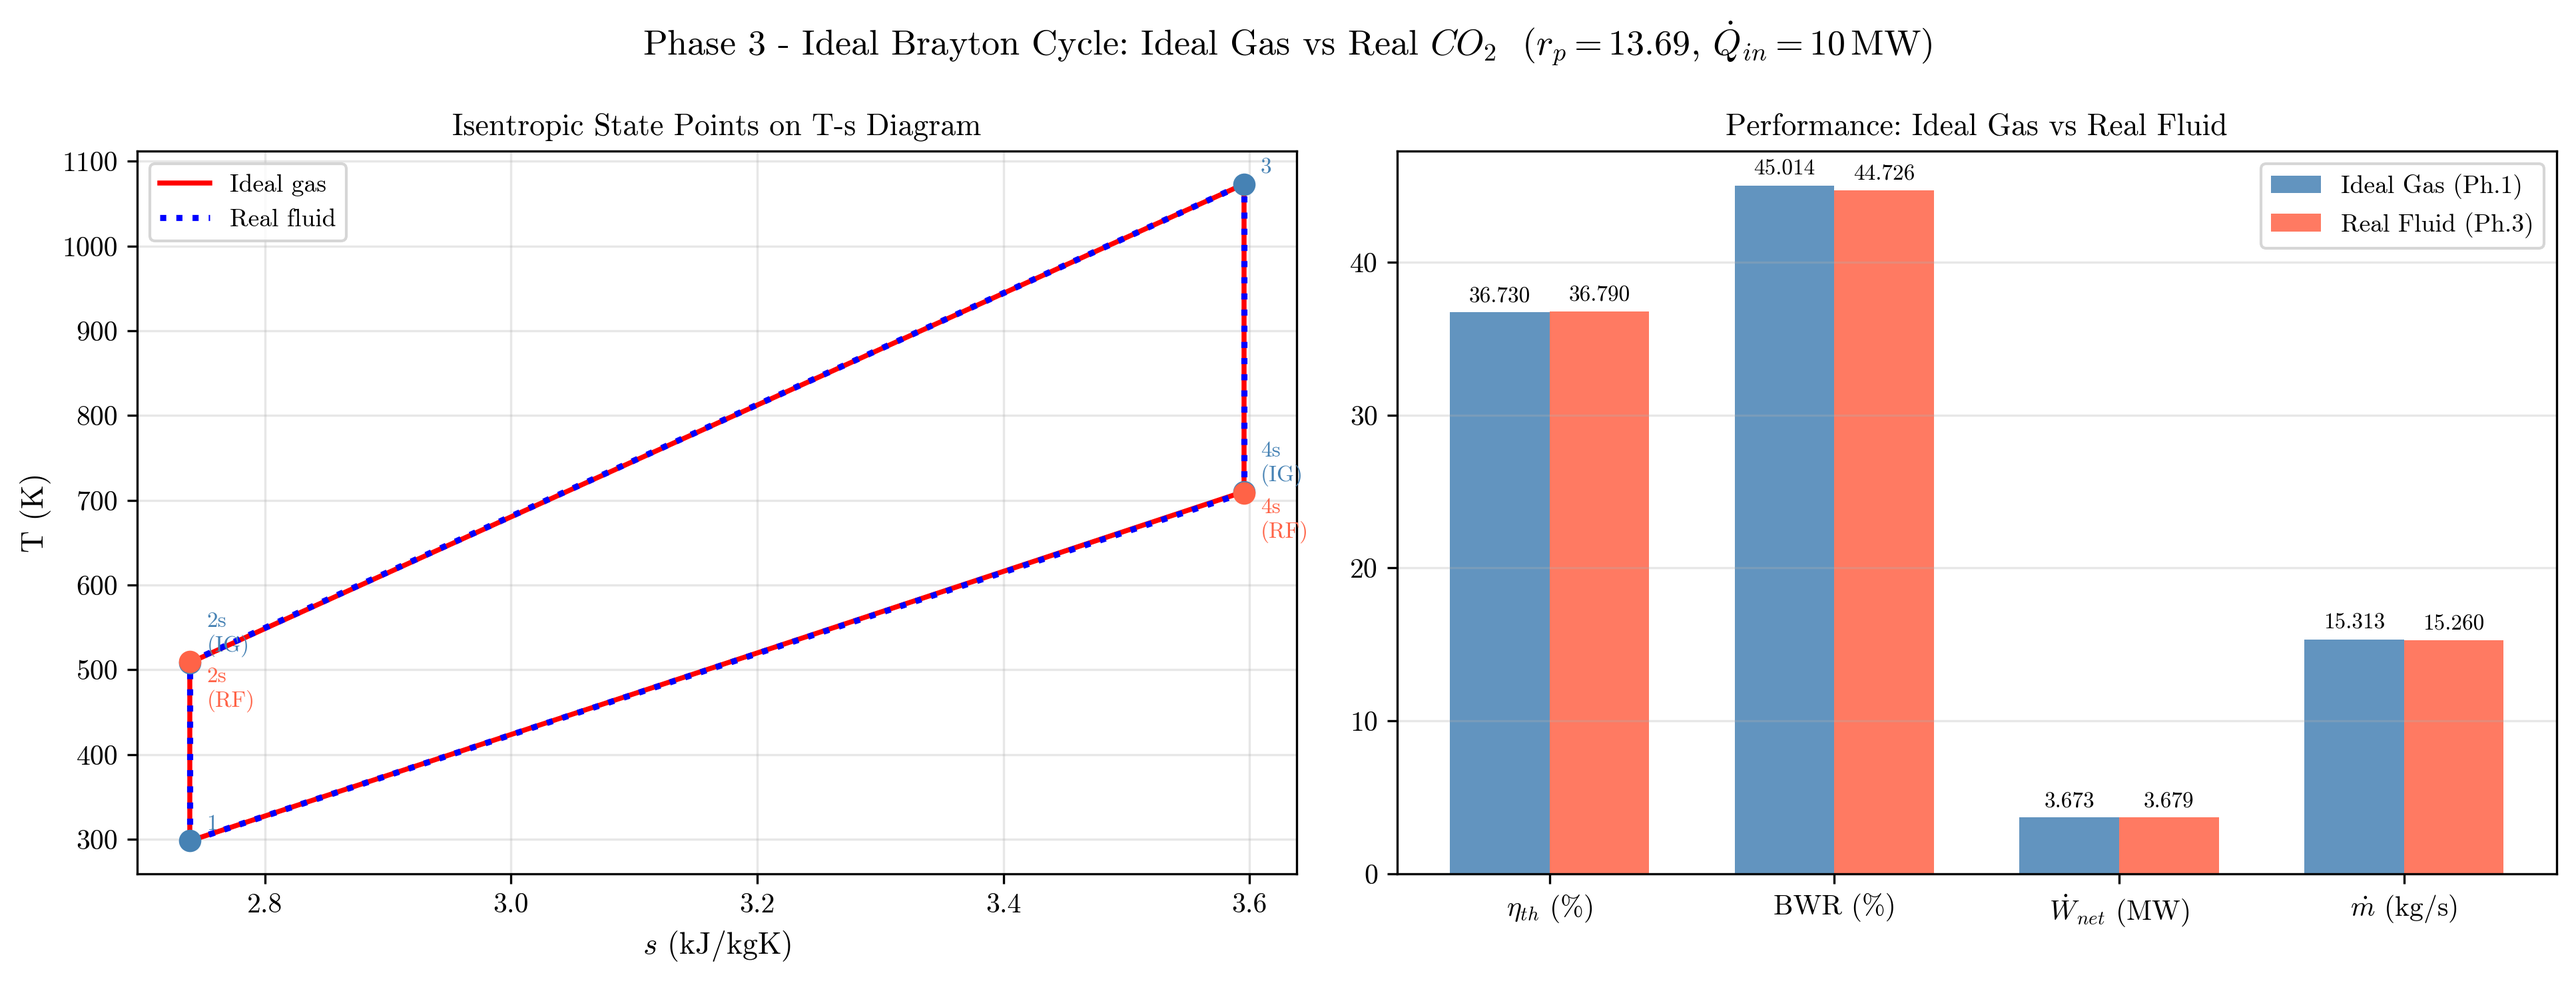
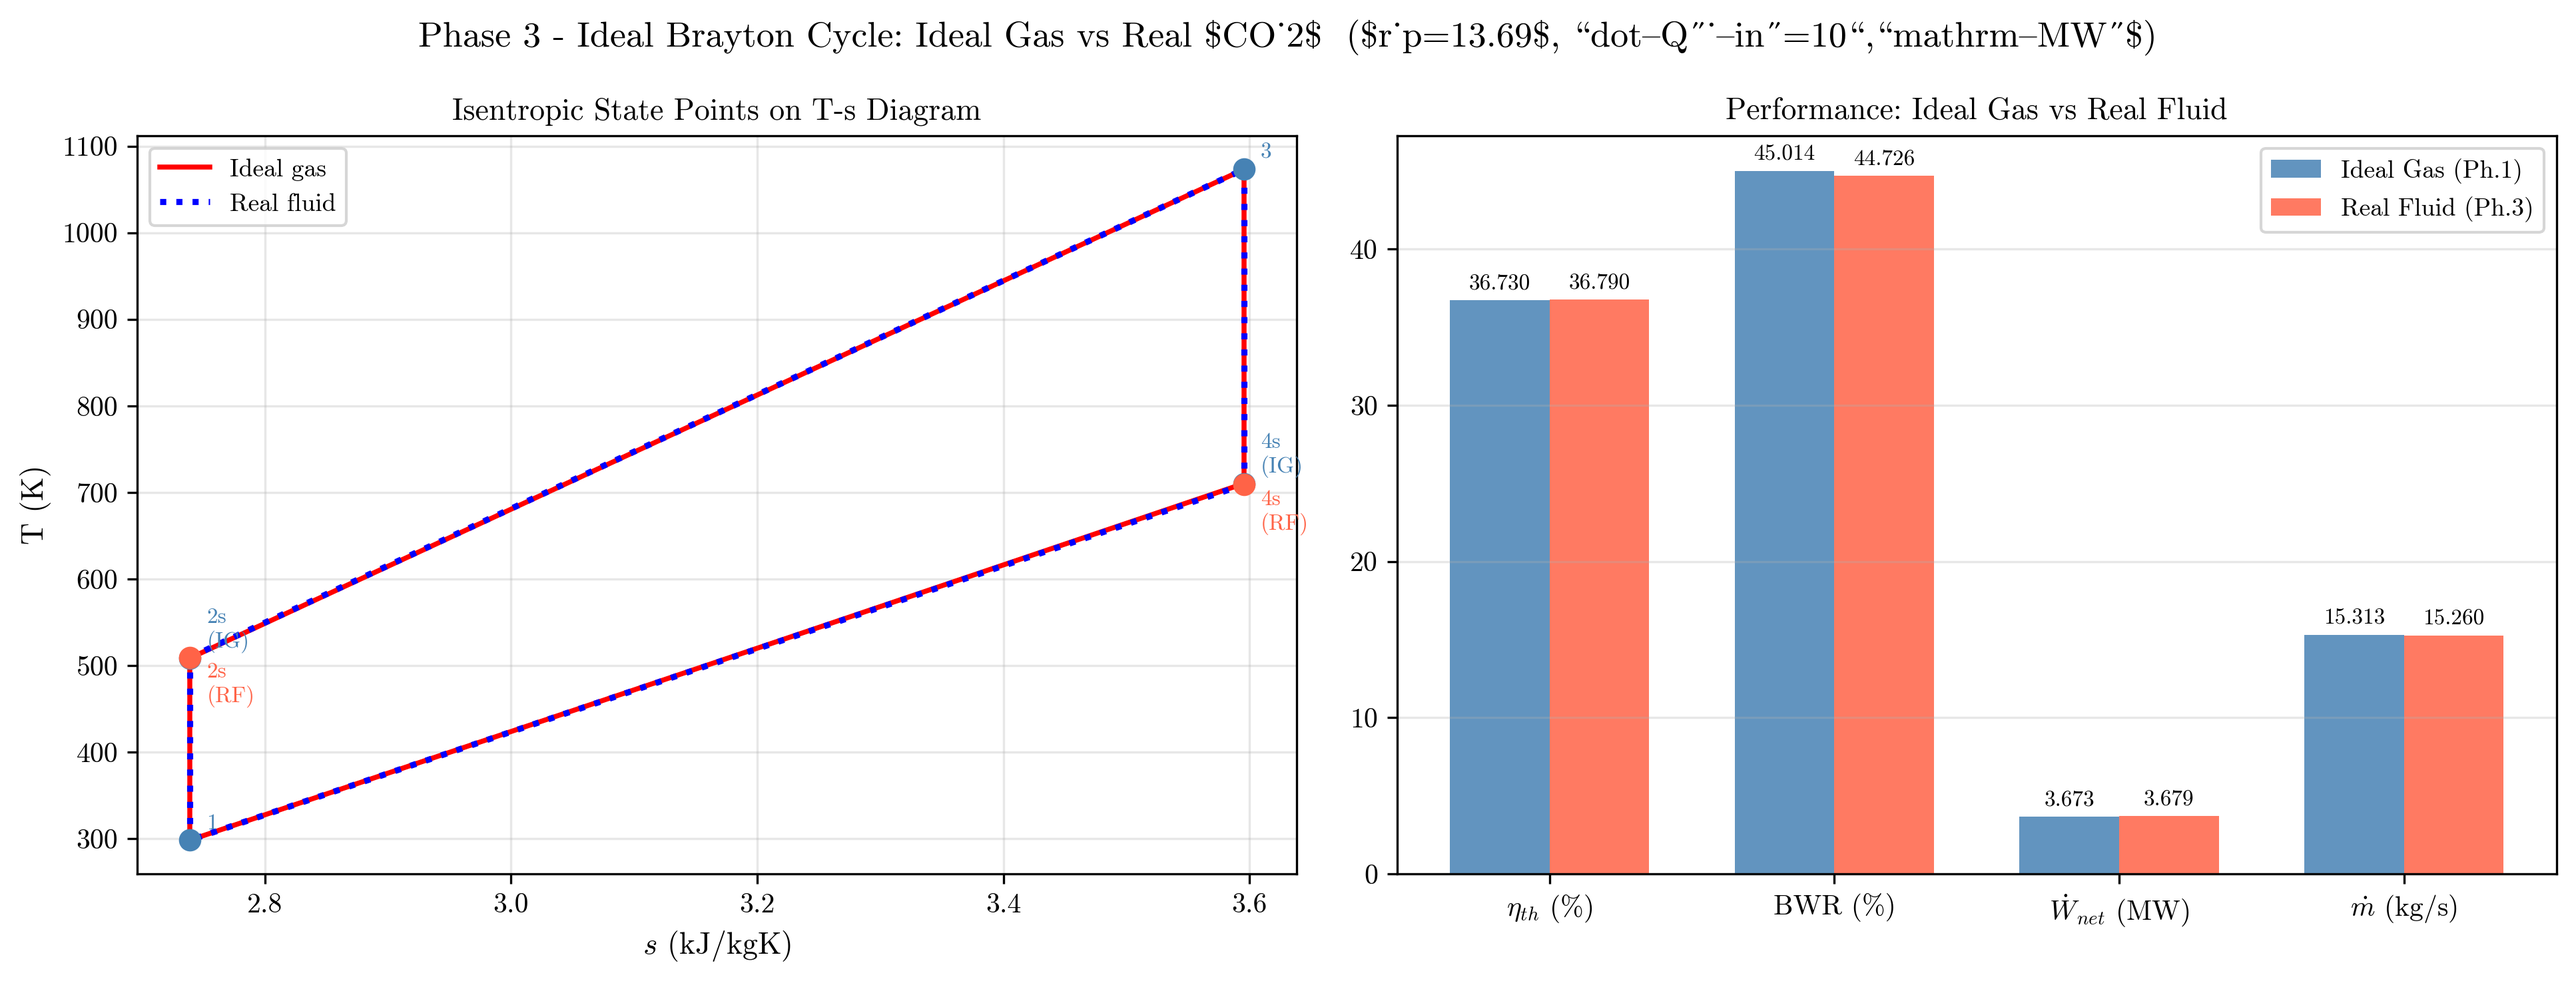
update visuals

diff --git a/visualizer.py b/visualizer.py
@@ -320,9 +320,7 @@ def plot_phase2_contours(
     """
     fig, axes = plt.subplots(2, 2, figsize=(13, 10))
     fig.suptitle(
-        rf"Phase 2 – Non-ideal Brayton Cycle on CO₂  "
-        rf"($r_p={rp:.1f}$, $\dot{{Q}}_{{in}}={Q_dot_in_MW:.0f}\,\mathrm{{MW}}$, "
-        rf"$T_{{max}}={T_max_C:.0f}\,°C$)",
+        rf"Phase 2 - Non-ideal Brayton Cycle on $CO_2$",
         fontsize=13, fontweight="bold", y=0.99,
     )
 
@@ -434,7 +432,7 @@ def plot_phase3_comparison(
     fig, (ax_ts, ax_bar) = plt.subplots(1, 2, figsize=(13, 5))
     fig.suptitle(
         rf"Phase 3 - Ideal Brayton Cycle: Ideal Gas vs Real $CO_2$  "
-        rf"($r_p={rp:.2f}$, $\dot{{Q}}_{{in}}={Q_dot_in_MW:.0f}\,\mathrm{{MW}}$)",
+        rf"($r_p={rp:.2f}$, \dot{{Q}}_{{in}}={Q_dot_in_MW:.0f}\,\mathrm{{MW}}$)",
         fontsize=13, fontweight="bold",
     )
 
